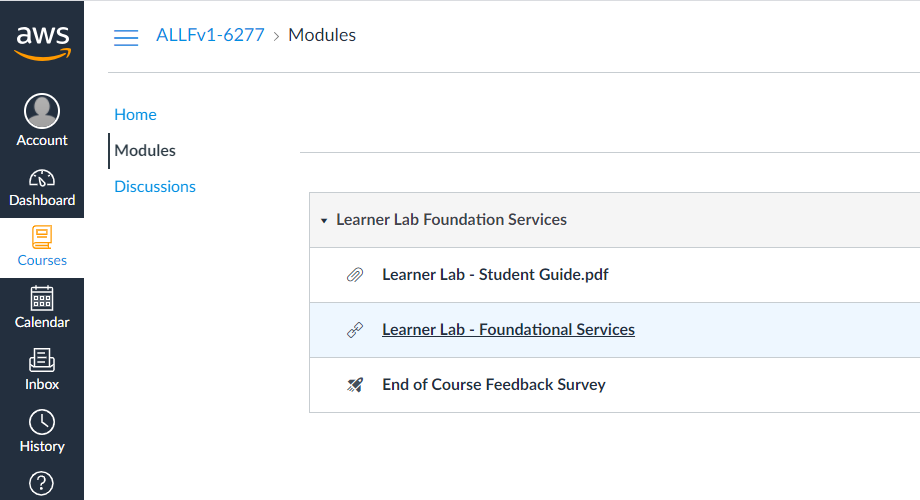
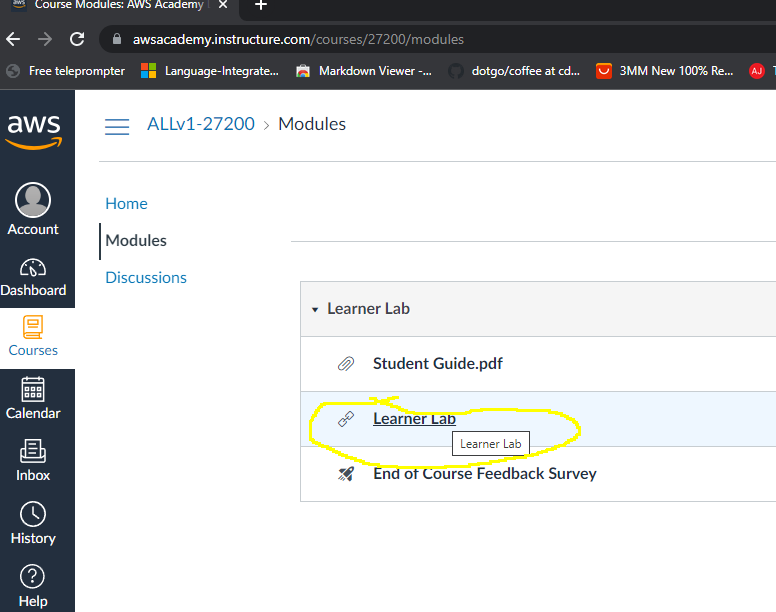
major revisions for 2022 AWS changes

Changed region(s): [[0.0, 0.0, 1.0, 1.0], [0.3711, 0.48, 1.0, 0.84], [0.3402, 0.42, 0.6186, 0.45]]

diff --git a/aws/create-instance.md b/aws/create-instance.md
@@ -2,7 +2,7 @@
 
 This will help you setup an instance on AWS (**Just ingore, click OK on pop-ups pertaining to budget).**
 
-* Log into Amazon Academy using the email you were sent and click "AWS Academy Learner Lab - Foun..." (magenta box in image):
+* Log into Amazon Academy using the email you were sent and click "Student login":
 
 <img src="content/aws1.png" alt="drawing" width="640"/>
 
@@ -10,7 +10,7 @@ This will help you setup an instance on AWS (**Just ingore, click OK on pop-ups 
 
 <img src="content/aws2.png" alt="drawing" width="640"/>
 
-* Click "Learner Lab - Foundational Services"
+* Click "Learner Lab"
 
 <img src="content/aws3.png" alt="drawing" width="640"/>
 
@@ -22,31 +22,41 @@ This will help you setup an instance on AWS (**Just ingore, click OK on pop-ups 
 
 <img src="content/aws5.png" alt="drawing" width="640"/>
 
-* Click Launch a virtual machine With EC2 (drawn around by hand):
+* Click View all services  (drawn around by hand):
+
+<img src="content/aws5.5.png" alt="drawing" width="640"/>
+
+* Click EC2 (drawn around by hand):
 
 <img src="content/aws6.png" alt="drawing" width="640"/>
 
-* Select Amazon Linux 2 AMI (HVM):
+* Click Launch instance (drawn around by hand):
+
+<img src="content/aws6.5.png" alt="drawing" width="640"/>
+
+* Give it a suitable name and Select Amazon Linux 2 AMI (HVM):
 
 <img src="content/aws7.png" alt="drawing" width="640"/>
 
-* You now need to select an instance type. If you are working on labsheets or just testing your coursework, use a t2.micro instance. If you are benchmarking your distributed system use a c4.xlarge instance. Once you have chosen the instance select "next".
+* You now need to select an instance type. If you are working on labsheets or just testing your coursework, use a t2.micro instance. If you are benchmarking your distributed system use the largest available -  medium instances (2 vCPU) seem to launch OK (large are not permitted). Once you have chosen the instance select "next".
 
-* Most settings on this page **do not** need to be changed, the only one you should worry about is the number of instances to start. Once this has been set, select "next".
+* Most settings on this page **do not** need to be changed, the only one you should worry about is **creating a key pair** 
 
-![Number of instances](content/number-instances.png)
+* Click Create a new key pair (drawn around by hand):
 
-* Select "next" on the storage section. You do not need to change any settings here.
+<img src="content/aws8.png" alt="drawing" width="640"/>
 
-* Add a tag, choose something that will help you identify the instance in the future, for example a lab name.
+* Call it something sensible and click create a key pair (note the EC2 instance will have this setup and the browser should automatically download the client side key)
 
-![Tags](content/tag.png)
+<img src="content/aws9.png" alt="drawing" width="640"/>
 
-* Leave the security group settings as default and select "review and launch".
+* Note the downloaded key here:
 
-* Now click "launch". This will open a popup box to set the keypair. If you have already got a keypair setup select it, **make sure you have the key downloaded somewhere**. If you cannot find the pre-existing key or do not already have one setup, create one and download it. **Make sure you keep it safe. If you lose it you will not be able to access your instances.**
+<img src="content/downloaded_key.png" alt="drawing" width="640"/>
 
-* Now click "launch instances". This will start your instances.
+* Leave the security group settings and storage as default 
+
+* Now click "launch instance". This will start your instance.
 
 * Follow the [next guide](access-instance.md) to get access to your instance.
 

diff --git a/aws/access-instance.md b/aws/access-instance.md
@@ -4,7 +4,7 @@ To access an instance you will need to use ssh. Linux and macOS support this in 
 
 1. Locate the keypair that you downloaded from AWS when you started your instances.
 
-2. Find the IP address of the instance you would like to connect to. This will be shown if you click on a instance from the list you have created. In the example below the ip address is `52.90.29.156`
+2. Find the IP address of the instance you would like to connect to. This will be shown if you click on a instance from the list you have created. In the example below the ip address is `54.210.24.40`
 
 ![ip address](content/ip-address.png)
 
@@ -14,9 +14,12 @@ To access an instance you will need to use ssh. Linux and macOS support this in 
 
 4. **WARNING MAKE SURE YOU TYPE THIS COMMAND *EXACTLY* AS SHOWN** Set your key to have the correct permissions by running `chmod 0600 ~/.ssh/keypair.pem`. 
 
-5. Use the command `ssh ec2-user@52.90.29.156 -i ~/.ssh/keypair.pem`. Replace the IP address with your IP.
+5. Use the command `ssh ec2-user@54.210.24.40 -i ~/.ssh/keypair.pem`. Replace the IP address with your IP.
 
-You now have a terminal connected to your AWS instance.
+You now have a terminal connected to your AWS instance (example on Sion's machine shown below)
+
+<img src="content/keypermissionsandaccess.png" alt="drawing" width="640"/>
+
 
 ## Coping files
 

diff --git a/README.md b/README.md
@@ -32,7 +32,7 @@ You will receive an email from AWS Academy to setup your account. Complete the a
 
 **It is important that you look after this credit! Once it's gone it's gone! Don't run instances when you aren't using them.**
 
-We advise that while you are testing your implementation you use a t2.micro instance. When you want to run benchmarks on your Game of Life coursework you should use a c4.xlarge instance. **Do not just use a c4.xlarge for regular development and testing, you will likely run out of credit if you do!**
+Currently AWS academy is limited to t1/t2.micro instances and some medium instances (2 vCPU) When you want to run benchmarks on your Game of Life coursework you should use the largest instances available. **Stick to the micro instances for regular development and testing, you will likely run out of credit if you don't!**
 
 These are some guides that we have created to help you setup your AWS instances. 
 
